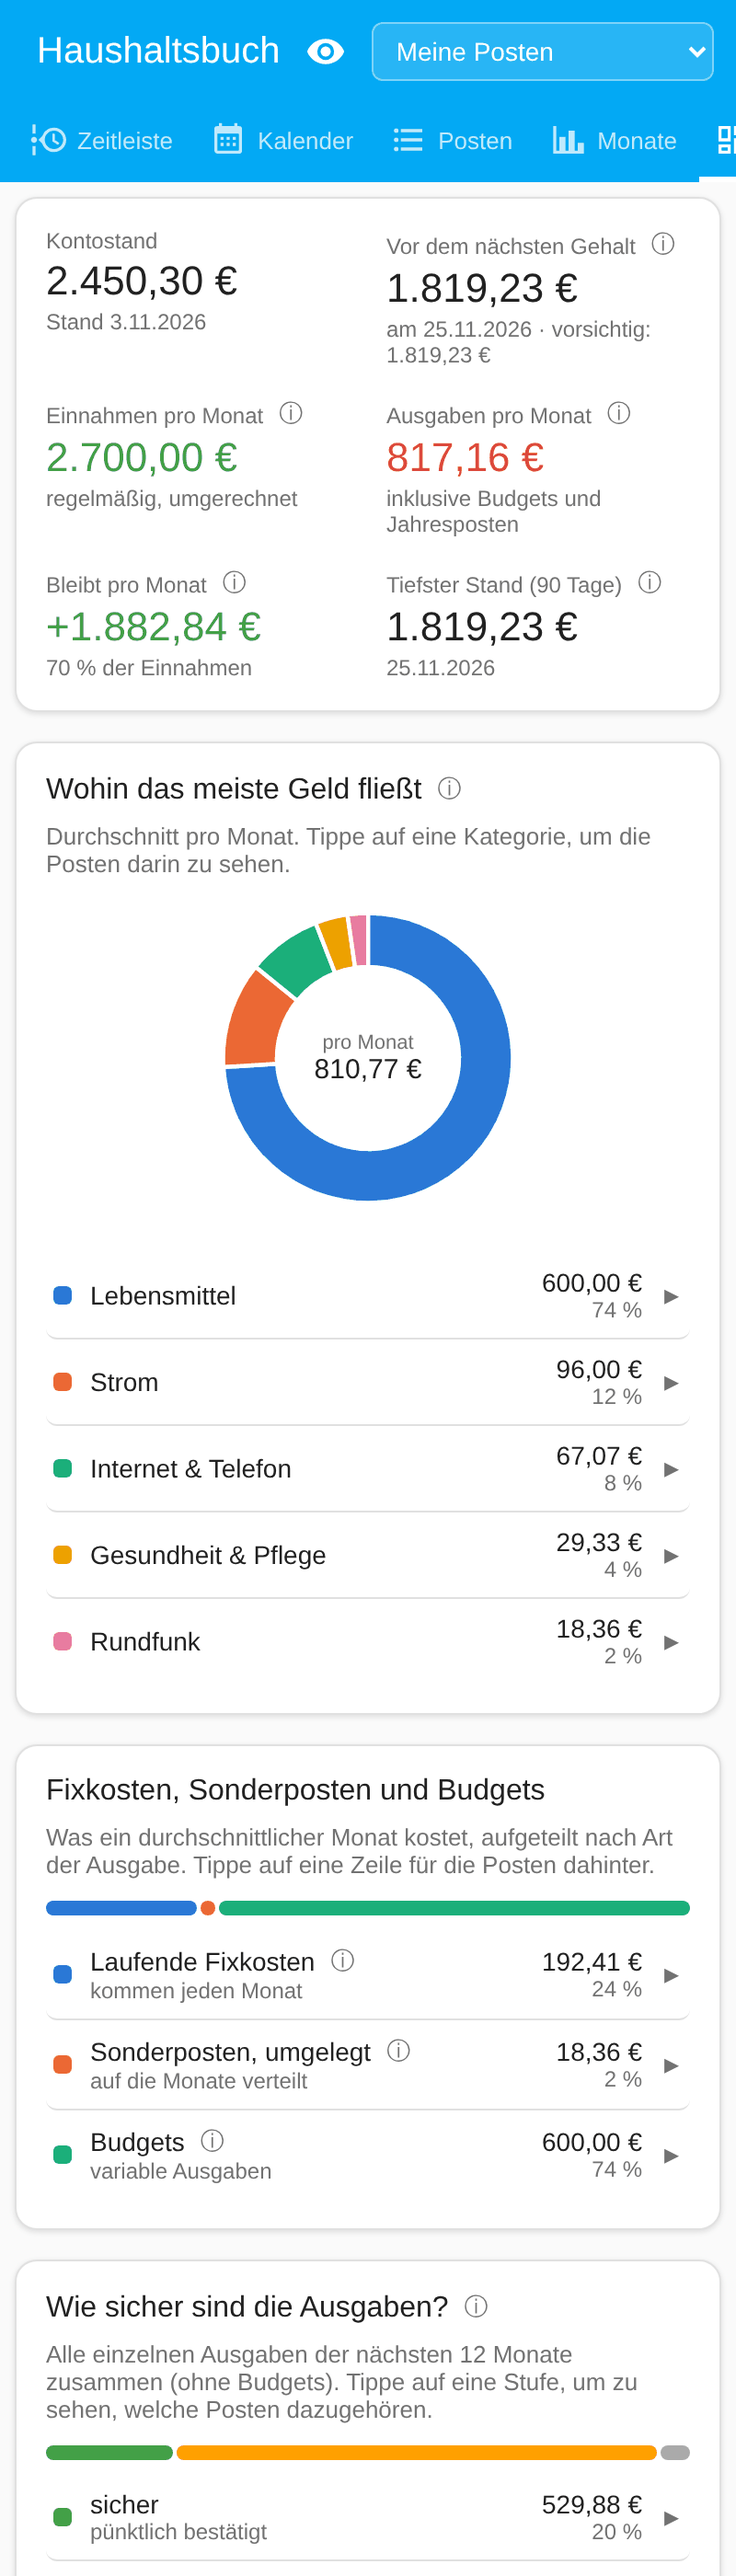
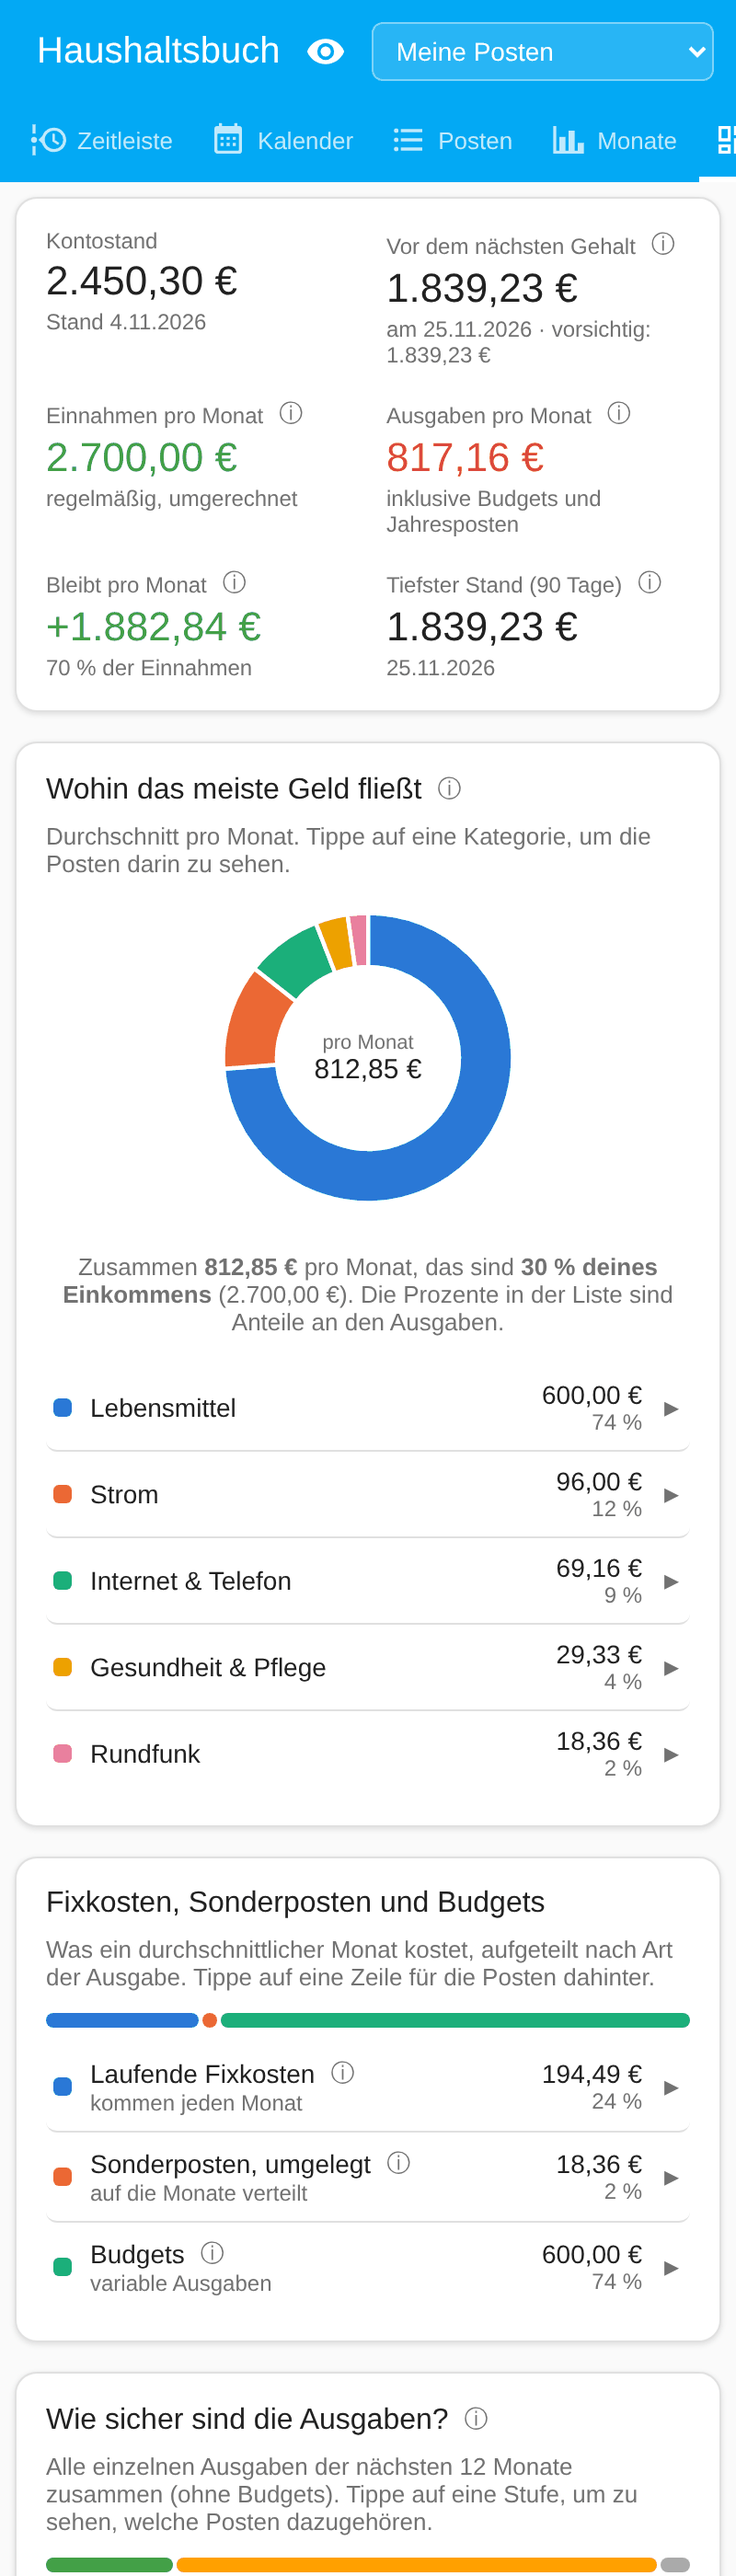
Übersicht: Anteil am Einkommen bei „Wohin das meiste Geld fließt“ (v0.8.4) (#35)
Claude-Session: https://claude.ai/code/session_01TQxBNxp7GSYrGRsbUUGUXa

diff --git a/custom_components/haushaltsbuch/frontend/haushaltsbuch-panel.js b/custom_components/haushaltsbuch/frontend/haushaltsbuch-panel.js
@@ -1000,7 +1000,7 @@ class HaushaltsbuchPanel extends HTMLElement {
       ${tile(tr("Bleibt pro Monat", "Left per month"), this._money(free, true), monthlyIn > 0 ? tr(`${Math.round((free / monthlyIn) * 100)} % der Einnahmen`, `${Math.round((free / monthlyIn) * 100)} % of income`) : "", free < 0 ? "neg" : "pos", tr("Einnahmen pro Monat minus Ausgaben pro Monat. So viel kannst du im Schnitt sparen.", "Income per month minus expenses per month: what you can save on average."))}
       ${tile(tr("Tiefster Stand (90 Tage)", "Lowest balance (90 days)"), lowest ? this._money(lowest.balance_likely) : "—", lowest ? fmtDate(lowest.date) : "", lowest && lowest.balance_likely < 0 ? "neg" : "", tr("Der niedrigste erwartete Kontostand in den nächsten 90 Tagen, meist kurz vor dem Gehalt.", "The lowest expected balance in the next 90 days, usually just before payday."))}
     </div></div>`;
-    return kpis + this._renderCategoryPie(rows) + this._renderSpendSplit(rows, itemsById) + this._renderCertaintySplit(rows) + this._renderFrequencySplit(active) + this._renderTopItems(active) + this._renderUpcomingSpecials(rows, itemsById);
+    return kpis + this._renderCategoryPie(rows, monthlyIn) + this._renderSpendSplit(rows, itemsById) + this._renderCertaintySplit(rows) + this._renderFrequencySplit(active) + this._renderTopItems(active) + this._renderUpcomingSpecials(rows, itemsById);
   }
 
   _showHelp(el) {
@@ -1081,7 +1081,7 @@ class HaushaltsbuchPanel extends HTMLElement {
       </div>`;
   }
 
-  _renderCategoryPie(rows) {
+  _renderCategoryPie(rows, monthlyIn = 0) {
     if (!rows.length) return "";
     const totals = {};
     const details = {};
@@ -1125,6 +1125,10 @@ class HaushaltsbuchPanel extends HTMLElement {
           <svg viewBox="0 0 160 160" width="180" height="180" role="img" aria-label="${esc(parts.map((p) => `${p.label} ${Math.round((p.value / total) * 100)} %`).join(", "))}">${slices.join("")}</svg>
           <div class="pie-center"><small>${tr("pro Monat", "per month")}</small>${this._money(total)}</div>
         </div>
+        ${monthlyIn > 0 ? `<p class="hint income-share">${tr(
+          `Zusammen <b>${this._money(total)}</b> pro Monat, das sind <b>${Math.round((total / monthlyIn) * 100)} % deines Einkommens</b> (${this._money(monthlyIn)}). Die Prozente in der Liste sind Anteile an den Ausgaben.`,
+          `Together <b>${this._money(total)}</b> per month, that is <b>${Math.round((total / monthlyIn) * 100)} % of your income</b> (${this._money(monthlyIn)}). The percentages in the list are shares of spending.`
+        )}</p>` : ""}
         <div class="split-list pie-list">
           ${parts
             .map(
@@ -1132,12 +1136,20 @@ class HaushaltsbuchPanel extends HTMLElement {
                 <i class="swatch ${p.cls}"></i><div class="split-name">${esc(p.label)}</div>
                 <div class="split-value">${this._money(p.value)}<small>${Math.round((p.value / total) * 100)} %</small></div>
                 <span class="chevron">${open(p) ? "▾" : "▸"}</span>
-              </div>${open(p) ? this._renderDetails(p.details) : ""}`
+              </div>${open(p) ? this._renderDetails(p.details, { note: this._shareNote(p.value, total, monthlyIn) }) : ""}`
             )
             .join("")}
         </div>
       </div>
     </div>`;
+  }
+
+  // "47 % of your spending · 30 % of your income" for one opened part.
+  _shareNote(value, total, monthlyIn) {
+    const ofSpend = Math.round((value / total) * 100);
+    if (!(monthlyIn > 0)) return tr(`${ofSpend} % deiner Ausgaben`, `${ofSpend} % of your spending`);
+    const ofIncome = Math.round((value / monthlyIn) * 100);
+    return tr(`<b>${ofSpend} % deiner Ausgaben</b> · <b>${ofIncome} % deines Einkommens</b>`, `<b>${ofSpend} % of your spending</b> · <b>${ofIncome} % of your income</b>`);
   }
 
   _renderSpendSplit(rows, itemsById) {
@@ -2015,6 +2027,7 @@ const STYLES = `
   .detail-name small, .detail-value small { display: block; color: var(--secondary-text-color); font-size: 11px; }
   .detail-value { text-align: right; font-size: 13px; font-variant-numeric: tabular-nums; }
   .pie-wrap { display: flex; flex-wrap: wrap; align-items: center; gap: 16px 28px; margin-top: 8px; }
+  .pie-wrap .income-share { flex-basis: 100%; margin: 0; text-align: center; }
   .pie { position: relative; width: 180px; height: 180px; margin: 0 auto; flex-shrink: 0; }
   .pie svg path, .pie svg circle { stroke: var(--card-background-color, #fff); stroke-width: 2; stroke-linejoin: round; }
   .pie svg circle { stroke: currentColor; }

diff --git a/custom_components/haushaltsbuch/const.py b/custom_components/haushaltsbuch/const.py
@@ -2,7 +2,7 @@
 from __future__ import annotations
 
 DOMAIN = "haushaltsbuch"
-VERSION = "0.8.3"
+VERSION = "0.8.4"
 
 STORAGE_KEY = f"{DOMAIN}.data"
 STORAGE_VERSION = 1

diff --git a/README.md b/README.md
@@ -257,7 +257,7 @@ Einen Monat antippen klappt die einzelnen Buchungen auf. Ganz unten steht, welch
 
 Das Dashboard auf einen Blick: Kontostand, erwarteter Stand zum Monatsende (mit Gehaltsmonat: **vor dem nächsten Gehalt**, wenn alle Abbuchungen schon runter sind), Einnahmen und Ausgaben pro Monat, was pro Monat übrig bleibt und der tiefste Stand der nächsten 90 Tage. Darunter:
 
-- **Wohin das meiste Geld fließt:** Kreisdiagramm der Ausgaben nach Kategorie (die fünf größten, der Rest unter „Weitere“).
+- **Wohin das meiste Geld fließt:** Kreisdiagramm der Ausgaben nach Kategorie (die fünf größten, der Rest unter „Weitere“). Darunter steht, wie viel Prozent deines Einkommens das zusammen ist. Klappst du eine Kategorie auf, siehst du ihren Anteil an den Ausgaben und am Einkommen, z.B. „47 % deiner Ausgaben · 30 % deines Einkommens“.
 - **Fixkosten, Sonderposten und Budgets** im Verhältnis, pro Monat gemittelt.
 - **Wie sicher sind die Ausgaben?** Anteil sicherer, wahrscheinlicher und unsicherer Ausgaben.
 - **Was jeder Turnus pro Monat kostet** und die **größten Ausgaben**, jeweils auf einen Monat umgerechnet. Antippen öffnet den Posten.

diff --git a/README.en.md b/README.en.md
@@ -247,7 +247,7 @@ Tap a month to expand its bookings. At the bottom, **spending per category**: la
 
 The dashboard at a glance: balance, expected balance at month end (with a salary month: **before the next payday**, when all debits have gone out), income and expenses per month, what is left per month and the lowest balance of the next 90 days. Below:
 
-- **Where most of the money goes:** a pie chart of expenses by category (the five largest, the rest under "Others").
+- **Where most of the money goes:** a pie chart of expenses by category (the five largest, the rest under "Others"). Below it you see what share of your income that is in total. Open a category to see its share of spending and of income, e.g. "47 % of your spending · 30 % of your income".
 - **Fixed costs, special entries and budgets** as shares of an average month.
 - **How certain are the expenses?** Share of certain, likely and uncertain expenses.
 - **What each schedule costs per month** and the **largest expenses**, each converted to one month. Tap to open the entry.
